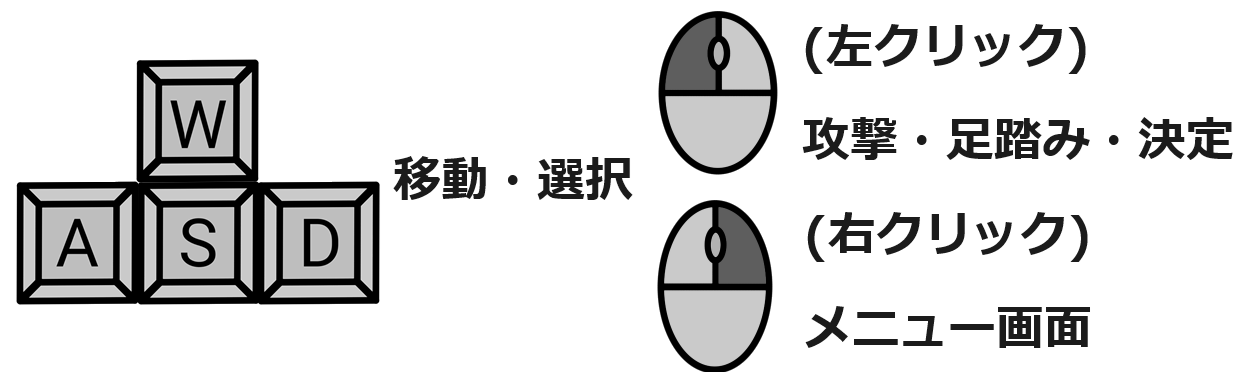
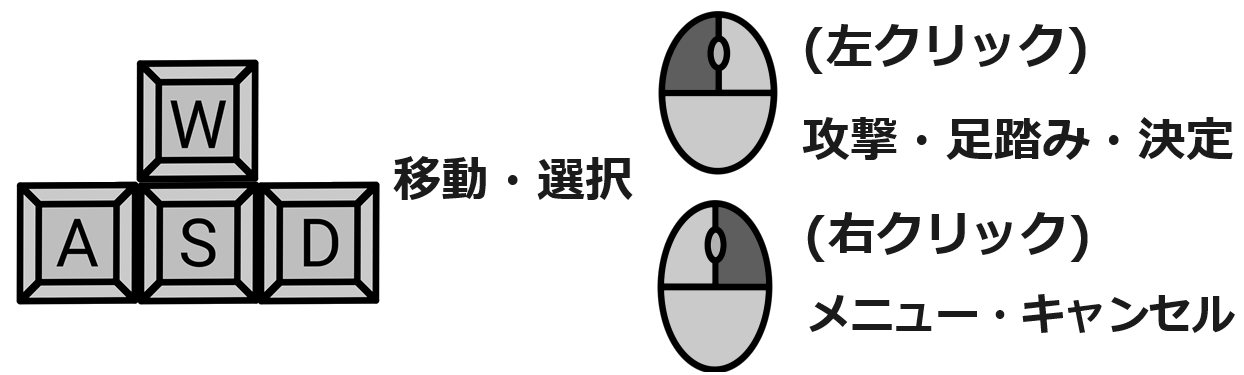
セレクトウィンドウにUI追加、メニューウィンドウの操作性改善

Changed region(s): [[0.6415, 0.792, 1.0, 0.9387]]

diff --git a/ManagedDxlGame/program/atlib/Singletons/SceneManager.cpp b/ManagedDxlGame/program/atlib/Singletons/SceneManager.cpp
@@ -17,7 +17,10 @@ namespace atl {
     };
 
     void SceneManager::nowSceneUpdate(float deltaTime) {
-        if (p_nextScene_) { p_nowScene_ = std::move(p_nextScene_); }
+        if (p_nextScene_) { 
+            p_nowScene_ = p_nextScene_; 
+            p_nextScene_.reset();
+        }
 
         if (p_nowScene_) {
             p_nowScene_->sceneUpdate(deltaTime);
